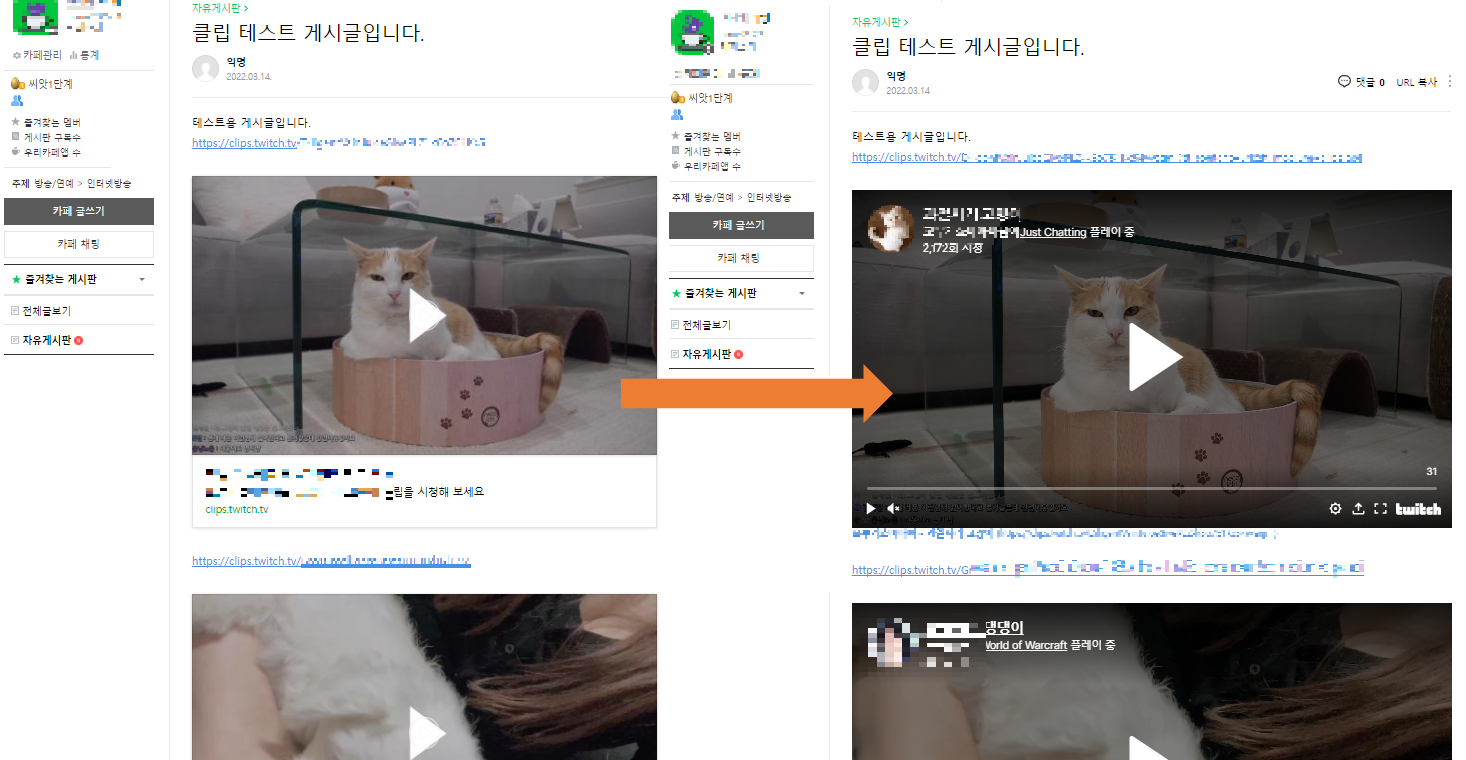
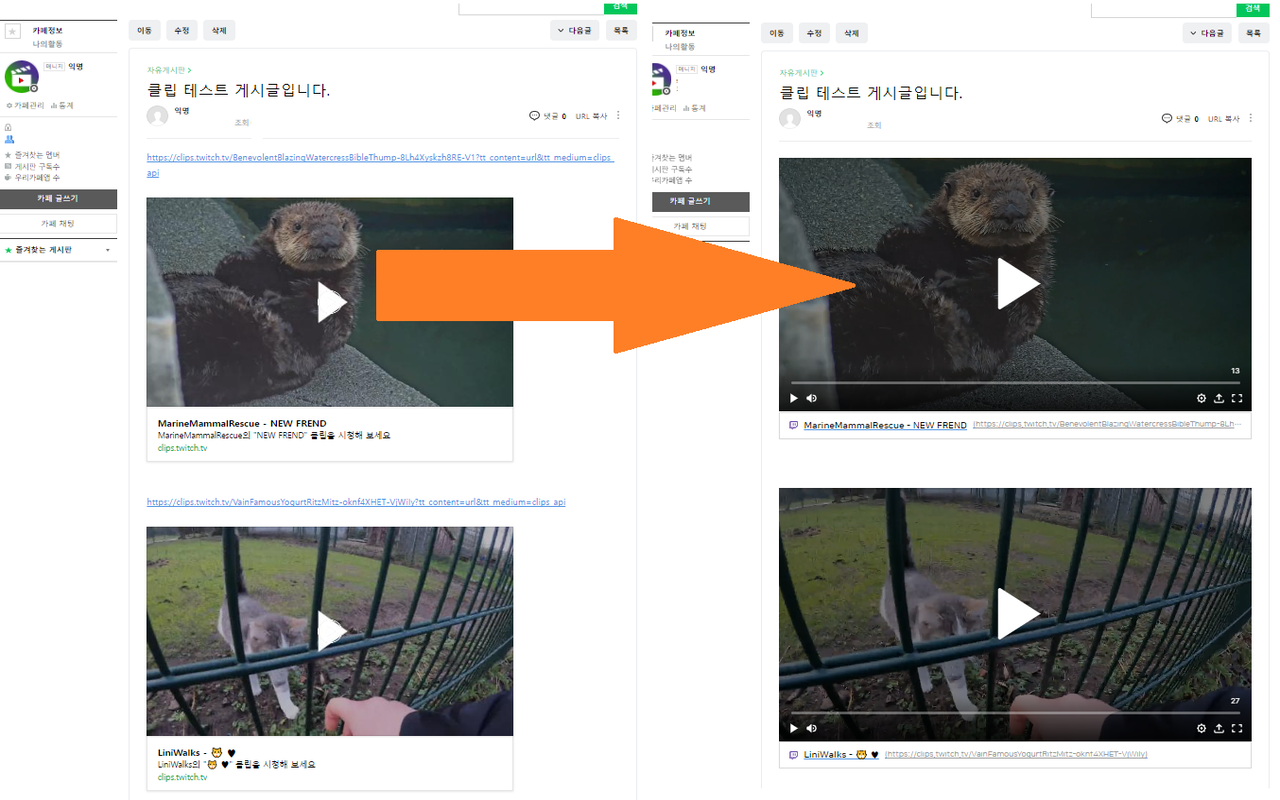
Docs 썸네일을 이전 스타일로 변경 및 이미지 업데이트 4e6d109

diff --git a/settings.html b/settings.html
@@ -627,7 +627,7 @@
                     target="_blank">NCTC-Loader</a> v0.5.1
                  <div class="footer_divider"></div>
                  <a href="https://github.com/getCurrentThread/Naver-Cafe-Twitch-Clip-Extension"
-                    target="_blank">NCTC-Extension</a> v0.1.1.4
+                    target="_blank">NCTC-Extension</a> v0.1.1.5
                  <div class="footer_divider"></div>
                  ©2017-2022 <a href="https://nomo.asia/" target="_blank">NOMO</a>,
                  <a href="https://github.com/getCurrentThread" target="_blank">getCurrentThread</a>
